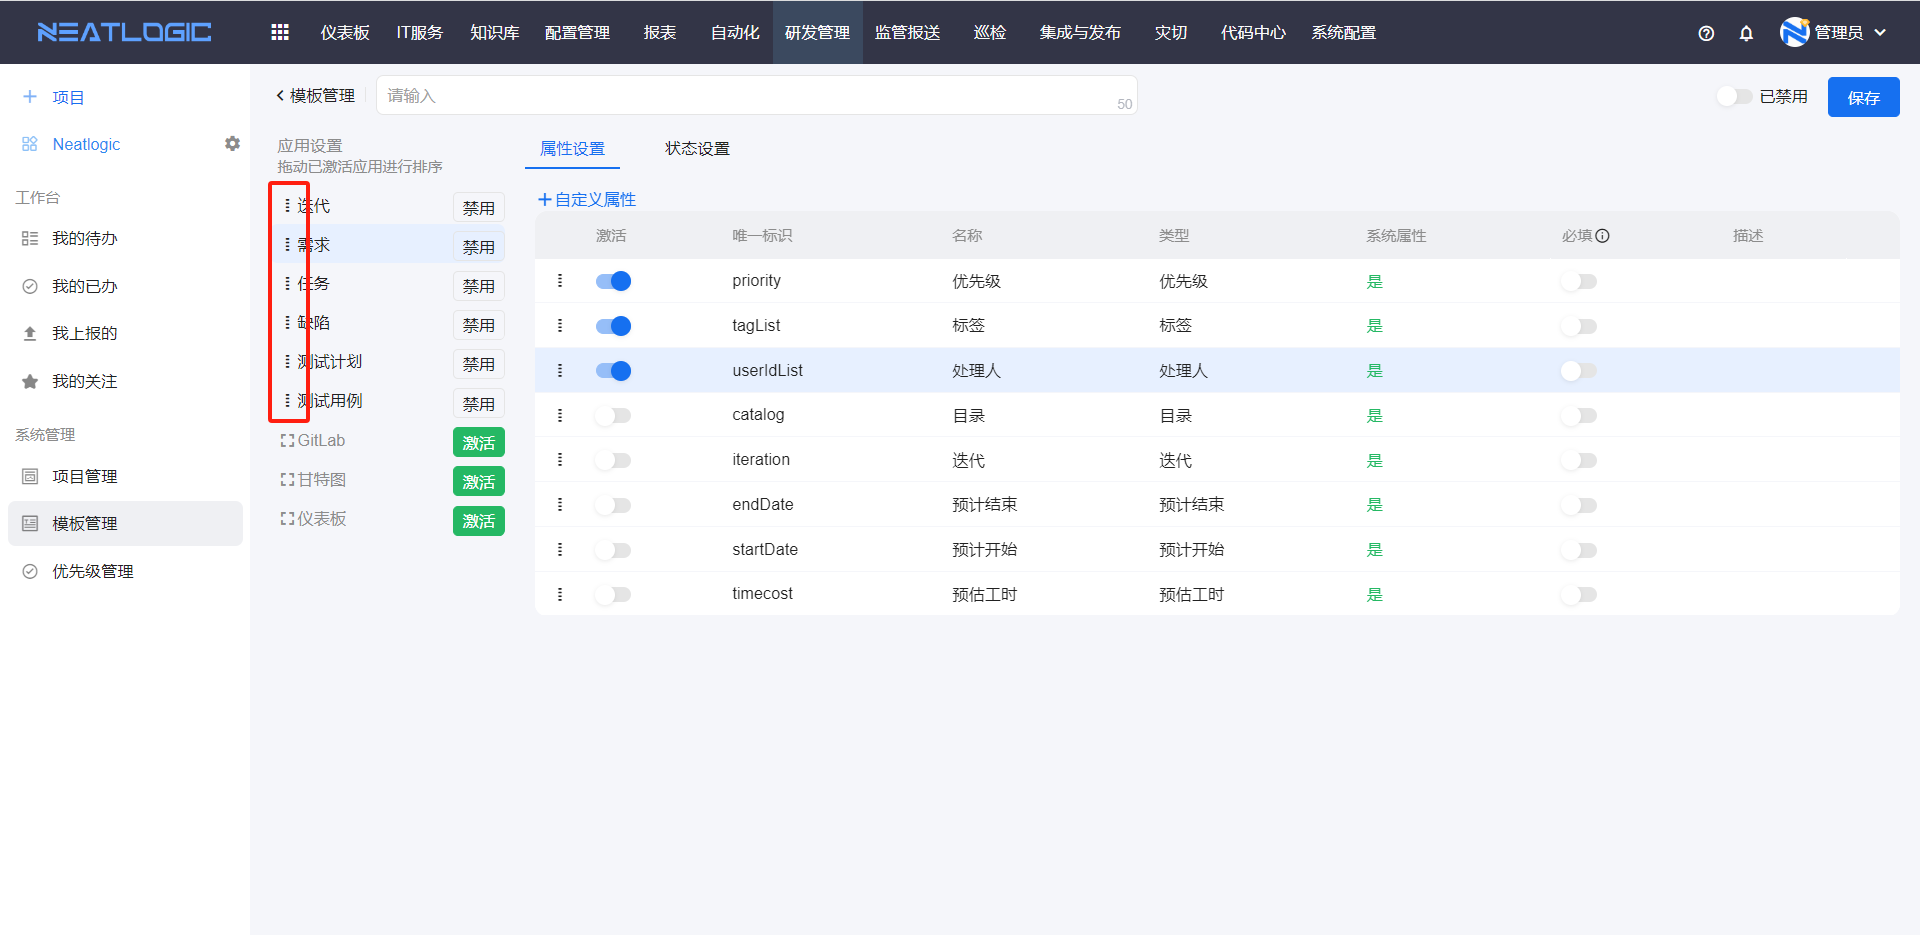
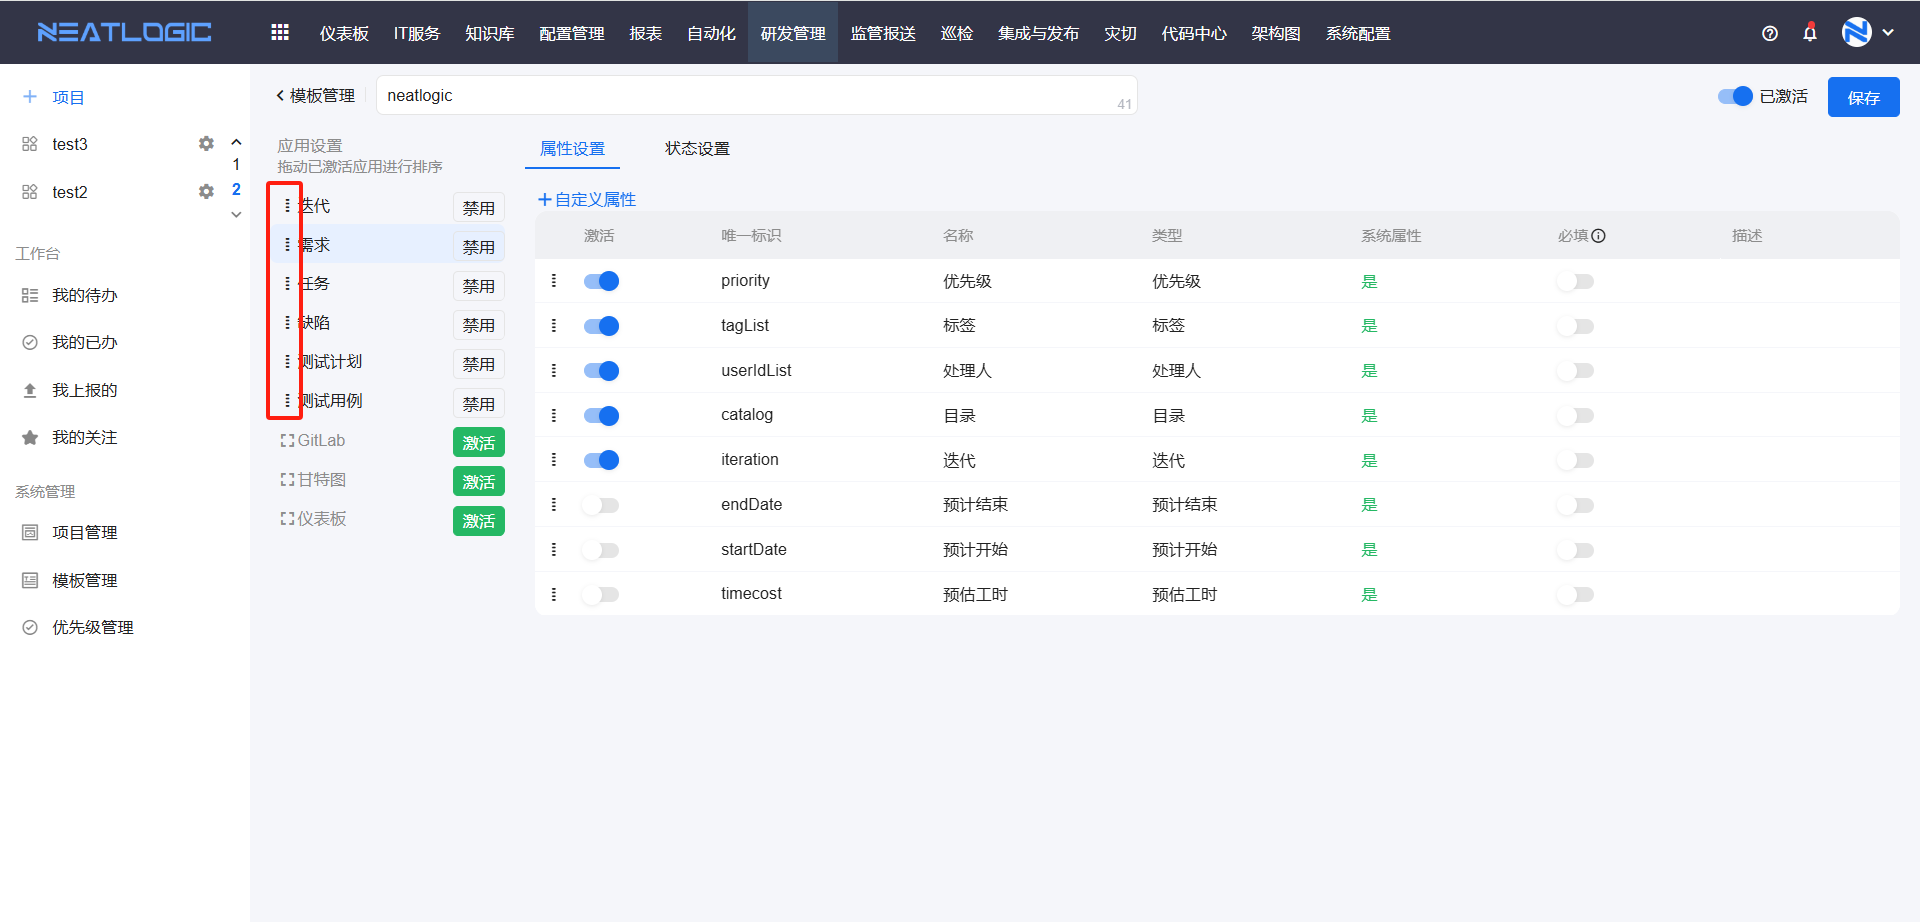
更新自动化基础配置、研发管理的模板管理文档

diff --git a/src/main/resources/neatlogic/resources/documentonline/zh/7.研发管理/模板管理.md b/src/main/resources/neatlogic/resources/documentonline/zh/7.研发管理/模板管理.md
@@ -6,16 +6,18 @@
 ## 模板组成
 模板中主要构成是应用设置和模板激活状态，应用设置可控制应用是否激活，以及定义激活应用的配置，模板的激活状态则是控制模板是否可以使用。
 ![](images/模板管理_应用设置.png)
+
 ### 应用设置
 应用设置总共包括迭代、需求、任务、缺陷、测试计划、测试用例、GitLab、甘特图、仪表版等应用。进行应用设置前，需激活需要配置的应用，激活的应用可以拖动排序。
 ![](images/模板管理_应用设置_排序.png)
-迭代、需求、任务、缺陷、测试计划、测试用例的配置是相似的，由属性设置和状态设置构成，下面以需求为例来介绍具体功能。
+迭代、甘特图和仪表版不需要配置，需求、任务、缺陷、测试计划、测试用例的配置都是由属性设置和状态设置构成，下面以需求为例来介绍具体功能。
+
 #### 属性设置
-需求属性列表中有系统属性，系统属性不能删除。
+需求属性列表中有系统属性，系统属性不能修改和删除。
 ![](images/模板管理_属性设置_系统属性.png)
-另外还支持添加自定义属性，自定义属性涵盖了常见的组件类型，比如文本、下拉框、日期类型，自定义属性可以删除。
+支持添加自定义属性，自定义属性涵盖了常见的组件类型，包括文本、下拉框、日期类型等，自定义属性可以修改和删除。
 ![](images/模板管理_属性设置_自定义属性.png)
-用户根据需求激活属性，未激活的属性不能使用，属性可以定义为必填，属性还支持排序。
+用户根据根据场景需要选择激活得属性，未激活的属性不能使用，属性可以定义为必填，还支持拖动修改排序。
 ![](images/模板管理_属性设置.png)
 
 #### 状态设置

diff --git a/src/main/resources/neatlogic/resources/documentonline/zh/5.自动化/配置/自动化配置.md b/src/main/resources/neatlogic/resources/documentonline/zh/5.自动化/配置/自动化配置.md
@@ -12,7 +12,7 @@
 ![](images/工具分类.png)
 
 ## 工具目录
-工具目录应用于工具的基本信息，管理页添加、重命名、删除、查看关联工具、搜索、修改排序和层级等功能。
+工具目录应用于自定义工具，支持添加、重命名、删除、查看关联工具、搜索、修改排序和层级等功能。
 
 * 添加目录
 ![](images/工具目录_添加目录.png)
@@ -39,7 +39,7 @@
 ![](images/全局参数.png)
 
 ## 场景定义
-场景可应用于自动化-组合工具场景和集成和发布-应用配置-流水线场景。
+场景可应用于自动化-组合工具场景、集成和发布-应用配置-流水线场景。
 ![](images/场景定义.png)
 
 ## 自定义模板
